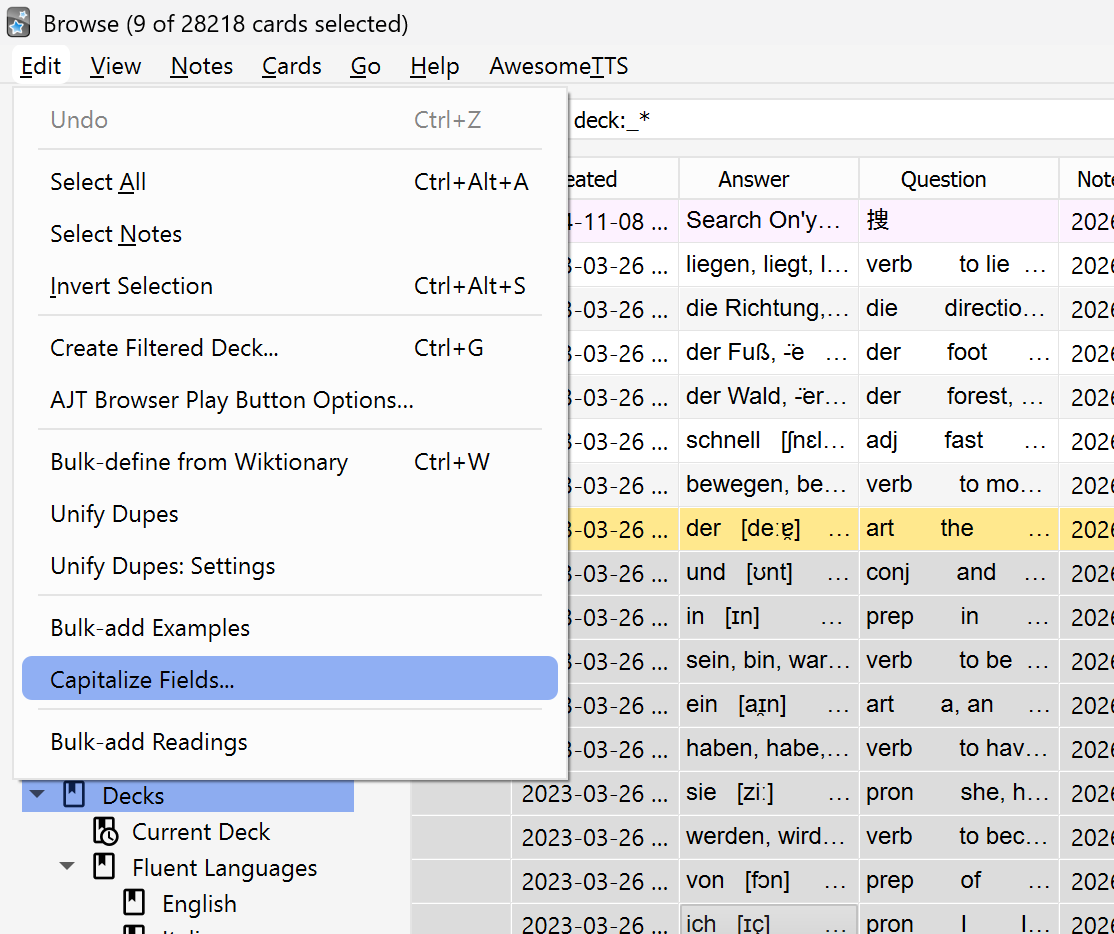
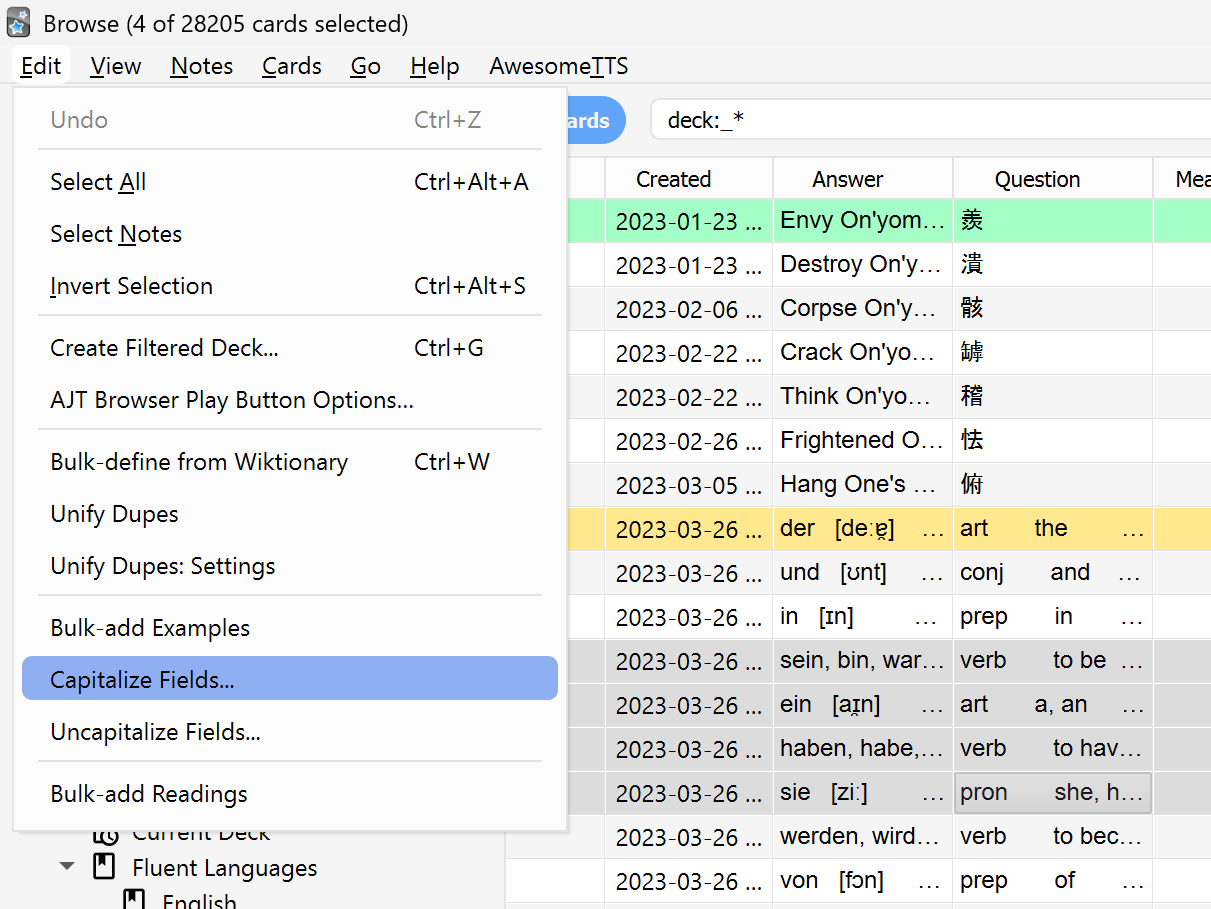
dev: uncapitalize option

diff --git a/__init__.py b/__init__.py
@@ -20,6 +20,17 @@ def capitalize_first_letter(text: str) -> str:
     i = m.start()
     return text[:i] + text[i].upper() + text[i+1:]
 
+# New: uncapitalize (opposite) implementations
+def uncapitalize_all_words(text: str) -> str:
+    return re.sub(r"\w[\w'\-]*", lambda m: m.group(0).lower(), text, flags=re.UNICODE)
+
+def uncapitalize_first_letter(text: str) -> str:
+    m = re.search(r"\w", text, flags=re.UNICODE)
+    if not m:
+        return text
+    i = m.start()
+    return text[:i] + text[i].lower() + text[i+1:]
+
 class FieldModeDialog(QDialog):
     def __init__(self, parent, field_names):
         super().__init__(parent)
@@ -132,11 +143,85 @@ def run_capitalize_from_browser(browser):
 
     showInfo(f"Updated {changed} notes (fields changed).")
 
-# Add the action to the Browser's Edit menu
+# New: run uncapitalize
+def run_uncapitalize_from_browser(browser):
+    if not hasattr(browser, "selectedNotes"):
+        showInfo("Please open the Browser and select one or more notes.")
+        return
+
+    note_ids = browser.selectedNotes()
+    if not note_ids:
+        showInfo("No notes selected. Select notes in the Browser first.")
+        return
+
+    names = set()
+    for nid in note_ids:
+        try:
+            n = mw.col.getNote(nid)
+            model_fields = [f["name"] for f in n.model()["flds"]]
+            names.update(model_fields)
+        except Exception:
+            continue
+
+    if not names:
+        showInfo("No fields found on selected notes.")
+        return
+
+    dlg = FieldModeDialog(browser, names)
+    if not dlg.exec_():
+        return
+
+    field_modes = dlg.selected_field_modes()
+    if not field_modes:
+        showInfo("No fields selected.")
+        return
+
+    changed = 0
+    mw.progress.start(parent=browser, label="Un-capitalizing fields...", immediate=True)
+    try:
+        for nid in note_ids:
+            note = mw.col.getNote(nid)
+            model_fields = [f["name"] for f in note.model()["flds"]]
+            updated = False
+            for fname, mode in field_modes.items():
+                if fname not in model_fields:
+                    continue
+                idx = model_fields.index(fname)
+                old = note.fields[idx] or ""
+                if mode == 0:
+                    new = uncapitalize_all_words(old)
+                else:
+                    new = uncapitalize_first_letter(old)
+                if new != old:
+                    note.fields[idx] = new
+                    updated = True
+            if updated:
+                mw.col.update_note(note)
+                changed += 1
+    finally:
+        mw.progress.finish()
+    
+    if changed:
+        mw.checkpoint("Uncapitalize fields")
+
+    try:
+        browser.onSearch()
+    except Exception:
+        pass
+
+    showInfo(f"Updated {changed} notes (fields changed).")
+
+# Add the actions to the Browser's Edit menu
 def on_browser_will_show_context_menu(browser):
-    action = QAction("Capitalize Fields...", browser)
-    action.triggered.connect(lambda: run_capitalize_from_browser(browser))
-    browser.form.menuEdit.addAction(action)
+    # Add capitalize action first
+    cap_action = QAction("Capitalize Fields...", browser)
+    cap_action.triggered.connect(lambda: run_capitalize_from_browser(browser))
+    browser.form.menuEdit.addAction(cap_action)
+
+    # then add uncapitalize action directly below it
+    uncap_action = QAction("Uncapitalize Fields...", browser)
+    uncap_action.triggered.connect(lambda: run_uncapitalize_from_browser(browser))
+    browser.form.menuEdit.addAction(uncap_action)
 
 # Hook into the Browser
 Browser.setupMenus = wrap(Browser.setupMenus, on_browser_will_show_context_menu, "after")

diff --git a/README.md b/README.md
@@ -1,4 +1,4 @@
-This add-on enhances Anki's Browser by allowing you to bulk-capitalize text in note fields with ease. There's two options, namely capitalizing every word in a field or just the first letter overall.
+This add-on enhances Anki's Browser by allowing you to bulk-capitalize or uncapitalize text in note fields with ease. For each of the two functionalities (capitalizing and uncapitalizing), there's two options, namely capitalizing every word in a field or just the first letter overall.
 
 **Installation**
 - **Option 1**: Place the add-on folder into your Anki `addons21` directory, then restart Anki to load the add-on. (this is the only viable option until I load it to Anki). The aforementioned directory can be found under `Roaming`, which again can be easily found by typing `%appdata%` in the Windows search bar, and then under `Anki2`, so the final path would look like `C:\Users\user\AppData\Roaming\Anki2\addons21`.
